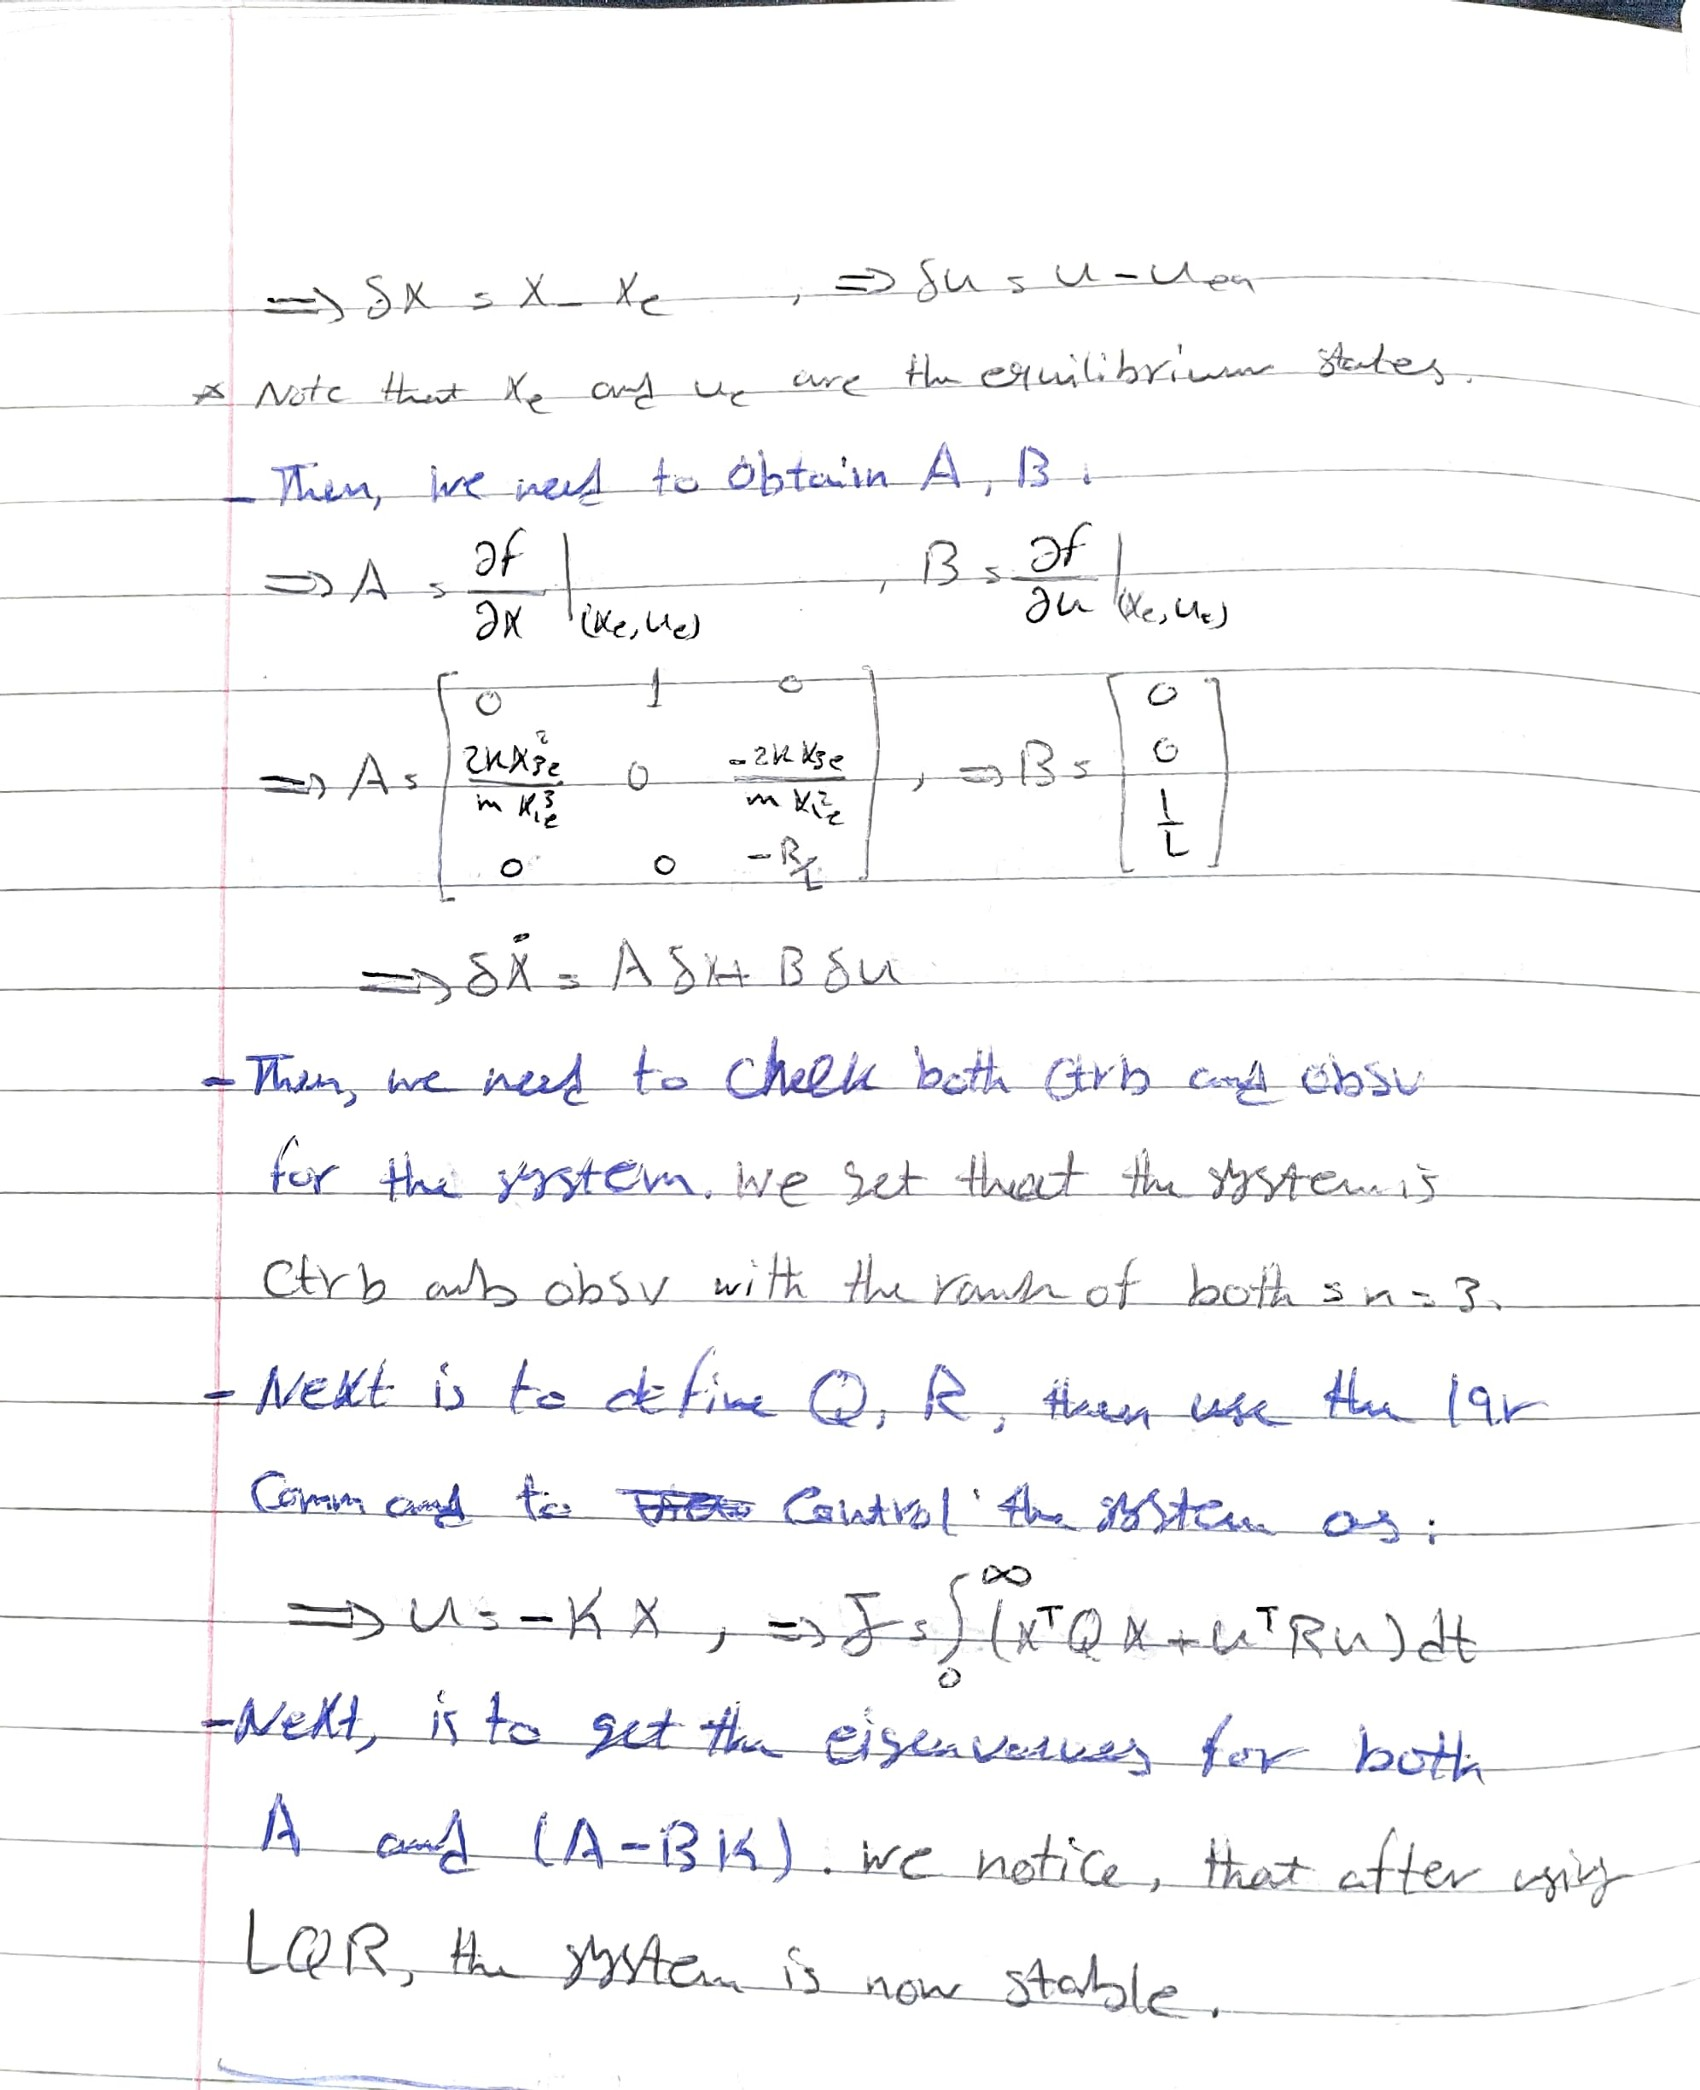
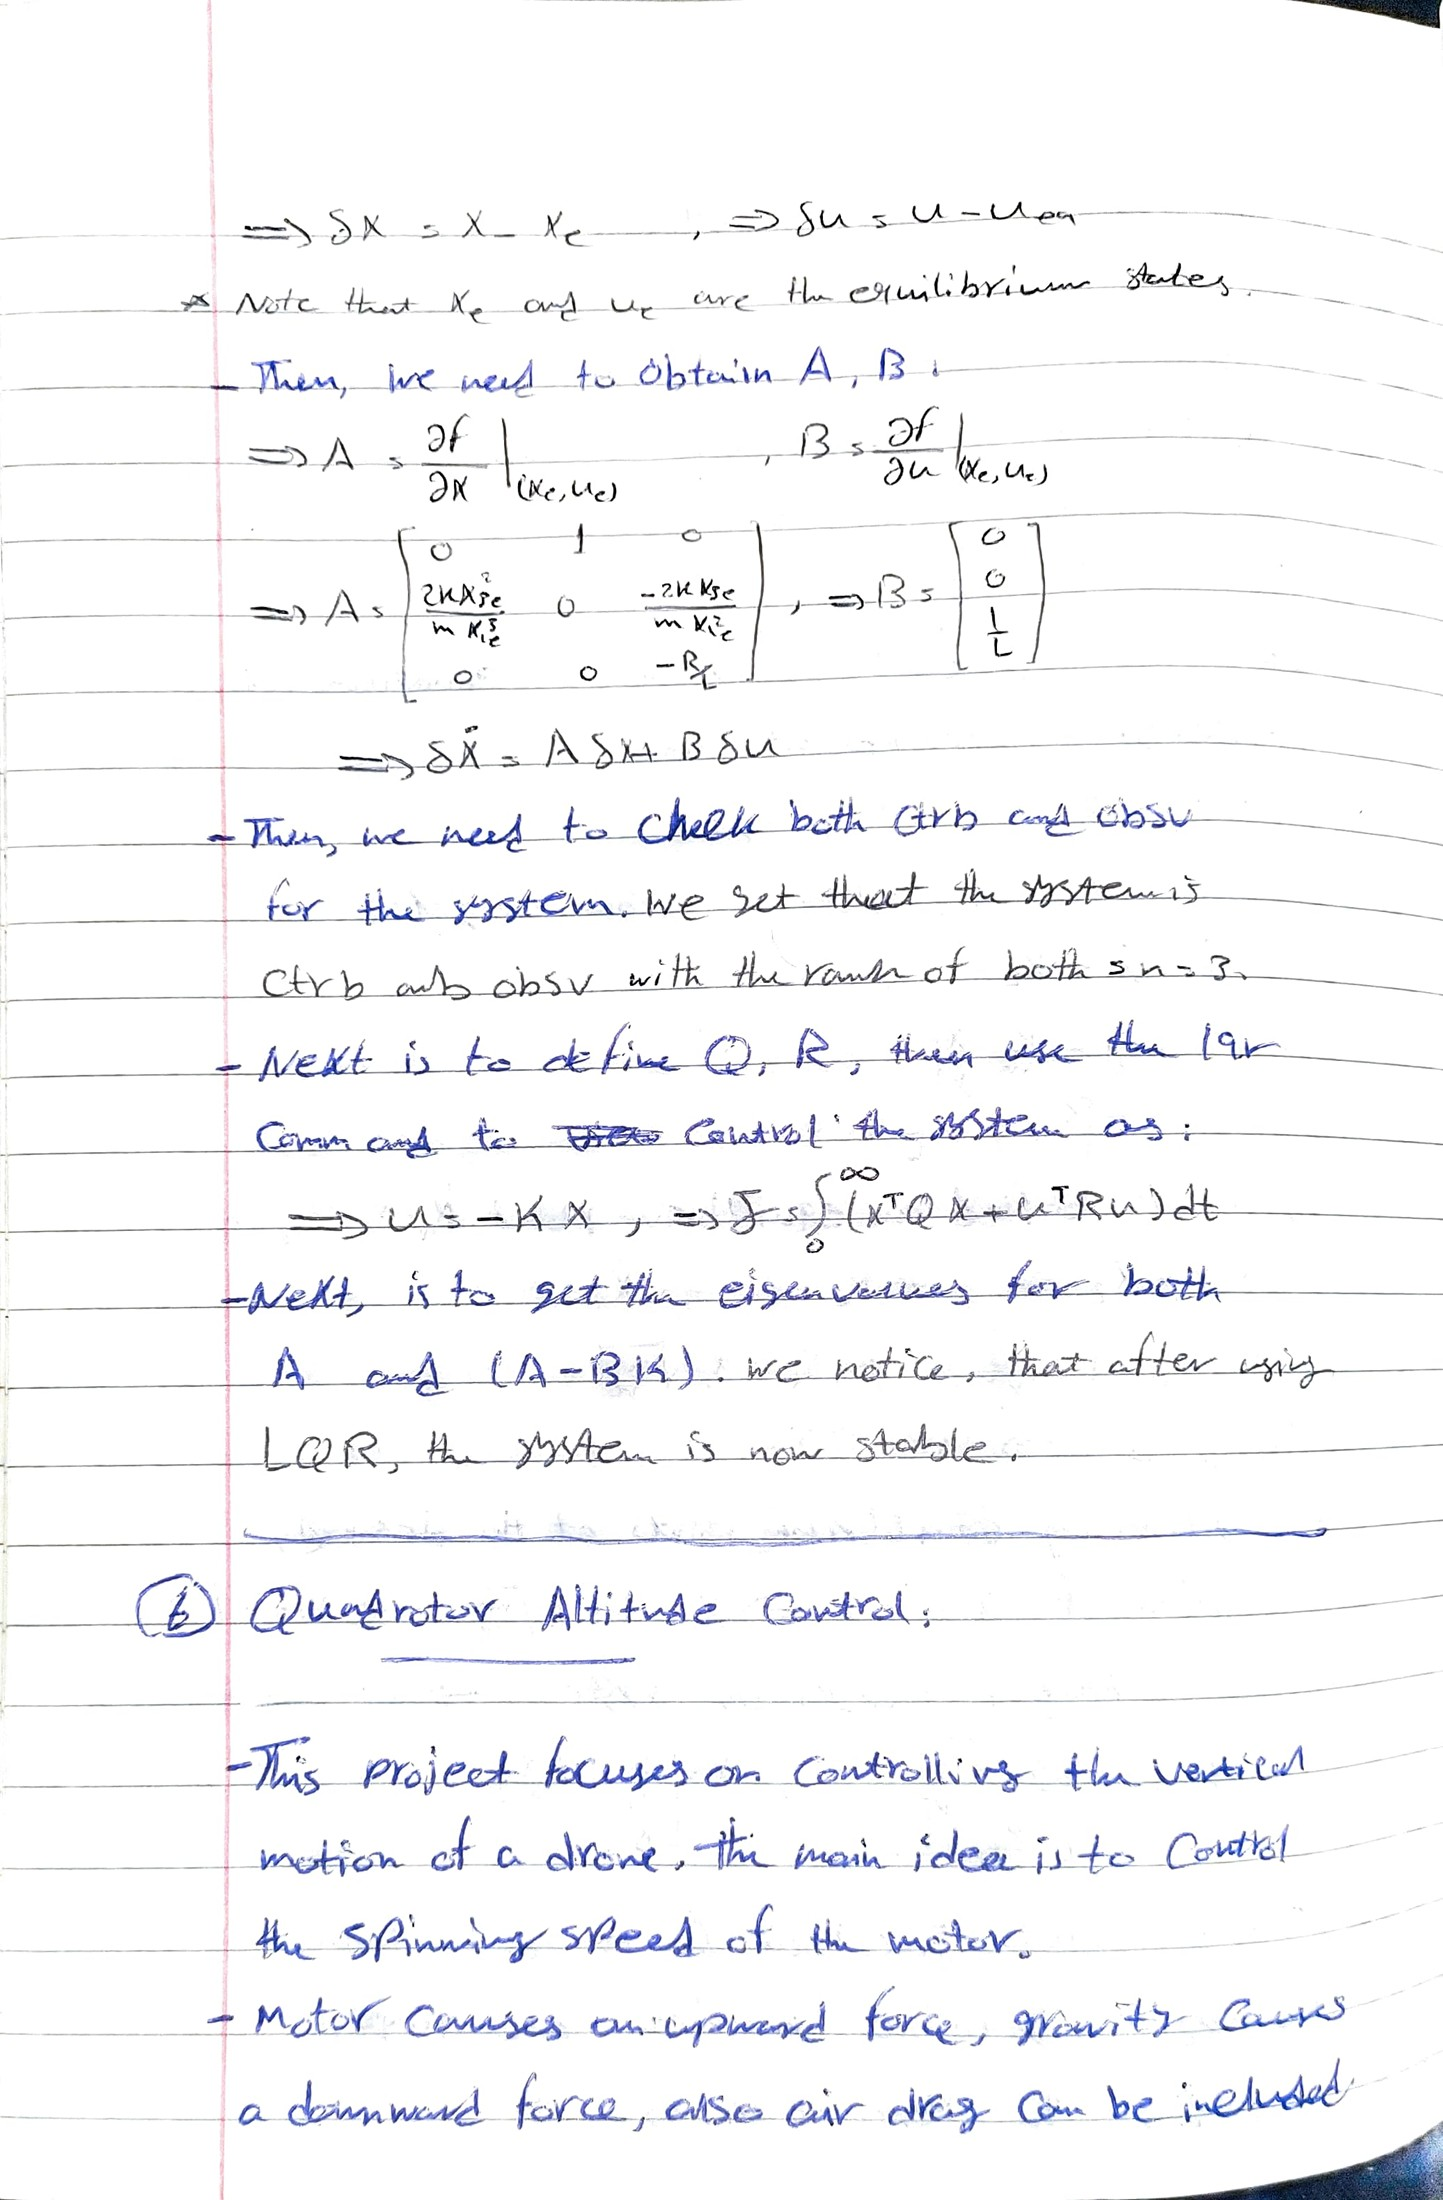
Added the Quadrotor Altitude Control project code and photos

diff --git a/Stage_2/Quadrotor_Altitude/Quad_Altit_LQR.m b/Stage_2/Quadrotor_Altitude/Quad_Altit_LQR.m
@@ -1,0 +1,178 @@
+clc;
+clear;
+close all;
+
+%% Assign Parameters
+
+m = 1;
+g = 9.81;
+
+Rm = 0.5;      % Motor resistance
+L = 1e-3;
+
+K_t = 0.02;
+K_e = 0.02;
+
+J = 1e-4;
+
+b = 1e-5;
+
+K_f = 1e-5;
+K_q = 1e-6;
+
+%% Compute equilibrium states
+
+omega_e = sqrt((m*g)/(4*K_f));
+omega_e_rpm = omega_e*60/(2*pi);
+
+i_e = (b*omega_e + K_q*omega_e^2)/(K_t);
+
+u_e = Rm*i_e + K_e*omega_e;
+
+%% Linearized system
+
+A = [0 1 0 0;
+     0 0 0 (8*K_f/m)*omega_e;
+     0 0 -Rm/L -K_e/L;
+     0 0 K_t/J (-b/J - 2*K_q*omega_e/J)];
+
+B = [0;
+     0;
+     1/L;
+     0];
+
+C = [1 0 0 0];
+D = 0;
+
+sys = ss(A,B,C,D);
+
+%% Analysis
+
+disp('Open-loop poles:')
+eig(A)
+
+Co = ctrb(A,B);
+disp('Controllability rank:')
+rank(Co)
+
+Ob = obsv(A,C);
+disp('Observability rank:')
+rank(Ob)
+
+%% LQR
+
+Q = diag([1000 100 1 1]);
+R_lqr = 1;
+
+K = lqr(A,B,Q,R_lqr)
+
+%% Closed-loop system
+
+Acl = A - B*K;
+
+disp('Closed-loop poles:')
+eig(Acl)
+
+sys_cl = ss(Acl,B,C,D);
+
+%% Initial Condition Response
+
+t = 0:0.001:5;
+
+x0 = [0.1;
+      0;
+      0;
+      0];
+
+[y,t,x] = initial(sys_cl,x0,t);
+
+figure
+subplot(4,1,1)
+plot(t,x(:,1),'LineWidth',1.5)
+grid on
+ylabel('Altitude')
+
+subplot(4,1,2)
+plot(t,x(:,2),'LineWidth',1.5)
+grid on
+ylabel('Velocity')
+
+subplot(4,1,3)
+plot(t,x(:,3),'LineWidth',1.5)
+grid on
+ylabel('Current')
+
+subplot(4,1,4)
+plot(t,x(:,4),'LineWidth',1.5)
+grid on
+ylabel('Omega')
+xlabel('Time (s)')
+
+sgtitle('LQR Initial Condition Response')
+
+%% Control Effort
+
+u = -K*x';
+
+figure
+plot(t,u,'LineWidth',1.5)
+grid on
+xlabel('Time (s)')
+ylabel('Voltage Perturbation')
+title('LQR Control Effort')
+
+%% Observer Design
+
+observer_poles = [-20 -25 -30 -35];
+
+Lobs = place(A',C',observer_poles)'
+
+%% Observer Error Dynamics
+
+Aobs = A - Lobs*C;
+
+disp('Observer poles:')
+eig(Aobs)
+
+%% Observer Error Simulation
+
+e0 = [0.1;
+      0.1;
+      1;
+      10];
+
+sys_obs = ss(Aobs,[],eye(4),[]);
+
+[e,tobs] = initial(sys_obs,e0,t);
+
+figure
+subplot(4,1,1)
+plot(tobs,e(:,1),'LineWidth',1.5)
+grid on
+ylabel('e_x')
+
+subplot(4,1,2)
+plot(tobs,e(:,2),'LineWidth',1.5)
+grid on
+ylabel('e_v')
+
+subplot(4,1,3)
+plot(tobs,e(:,3),'LineWidth',1.5)
+grid on
+ylabel('e_i')
+
+subplot(4,1,4)
+plot(tobs,e(:,4),'LineWidth',1.5)
+grid on
+ylabel('e_\omega')
+xlabel('Time (s)')
+
+sgtitle('Observer Error Convergence')
+
+%% Step Response (Disturbance Input)
+
+figure
+step(sys_cl,5)
+grid on
+title('Closed-Loop Step Response')
+ylabel('Altitude')
